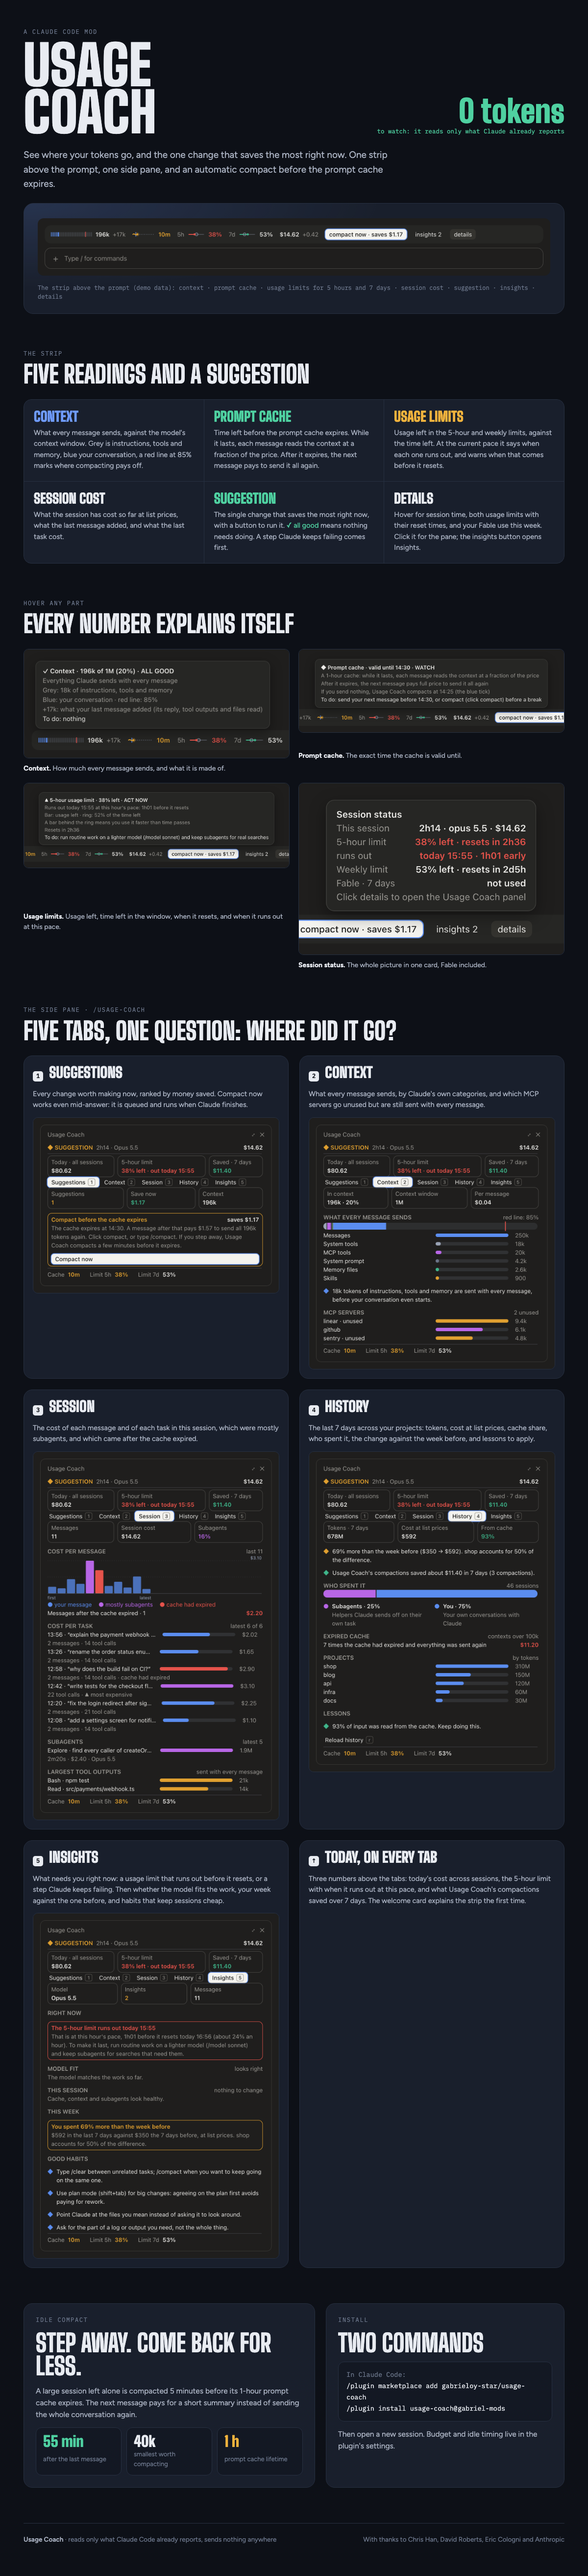
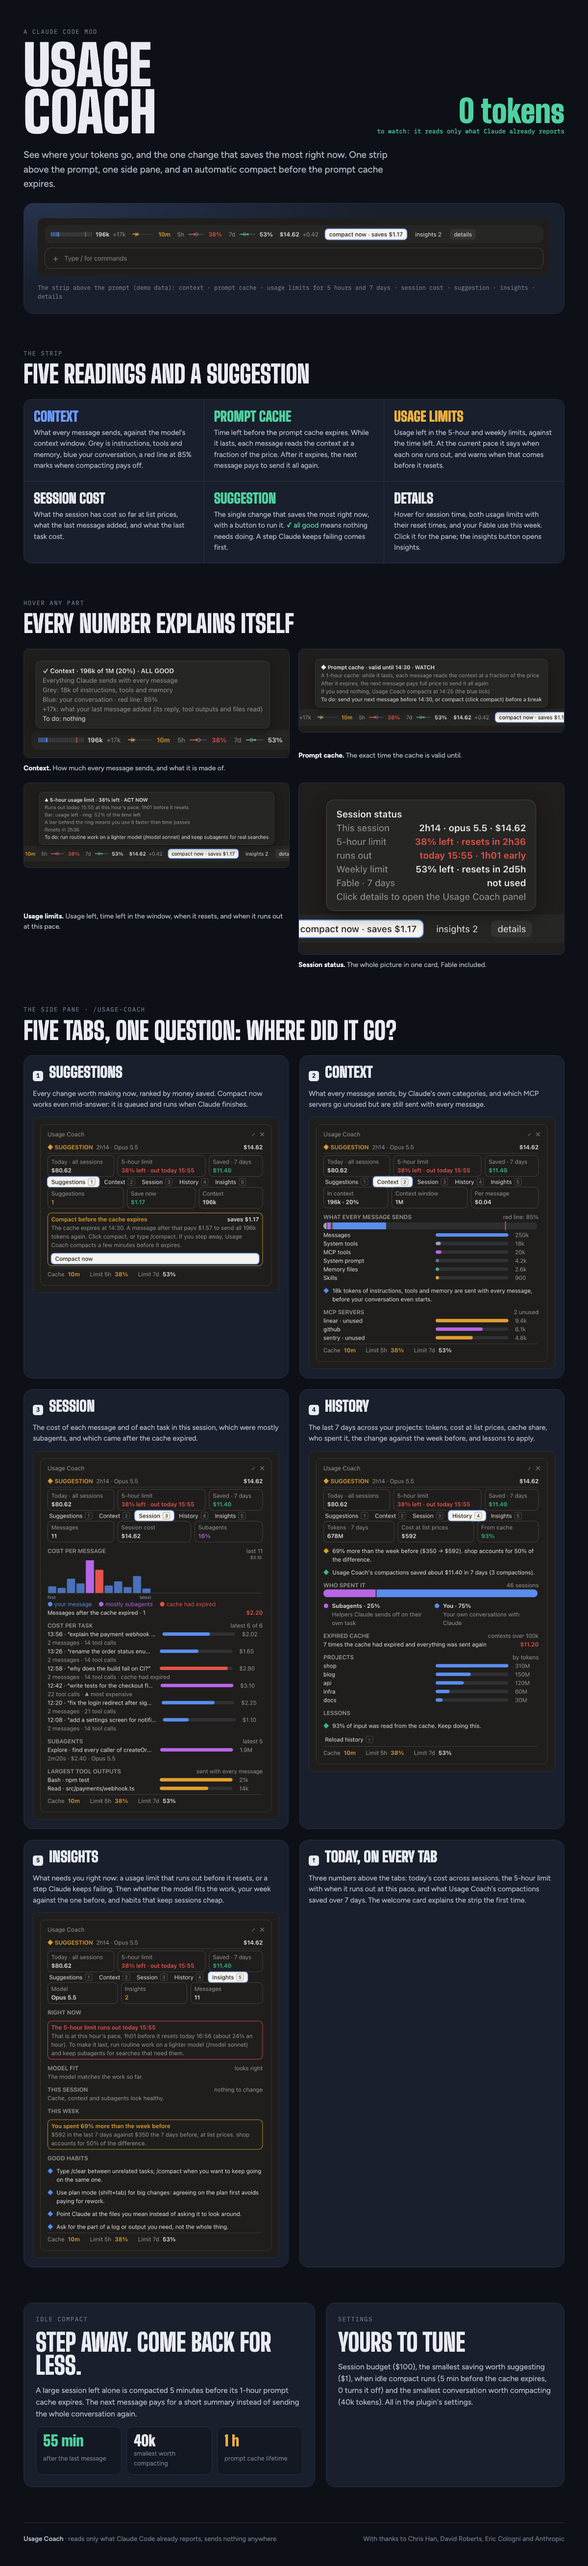
docs: replace the install card in the overview with settings

diff --git a/docs/overview.html b/docs/overview.html
@@ -150,12 +150,9 @@ pre { margin: 0; background: var(--bg-2); border: 1px solid var(--line); border-
       </div>
     </div>
     <div class="card">
-      <span class="tag">Install</span>
-      <h2>Two commands</h2>
-      <pre><span class="dim">In Claude Code:</span>
-/plugin marketplace add gabrieloy-star/usage-coach
-/plugin install usage-coach@gabriel-mods</pre>
-      <p>Then open a new session. Budget and idle timing live in the plugin's settings.</p>
+      <span class="tag">Settings</span>
+      <h2>Yours to tune</h2>
+      <p>Session budget ($100), the smallest saving worth suggesting ($1), when idle compact runs (5 min before the cache expires, 0 turns it off) and the smallest conversation worth compacting (40k tokens). All in the plugin's settings.</p>
     </div>
   </section>
 
